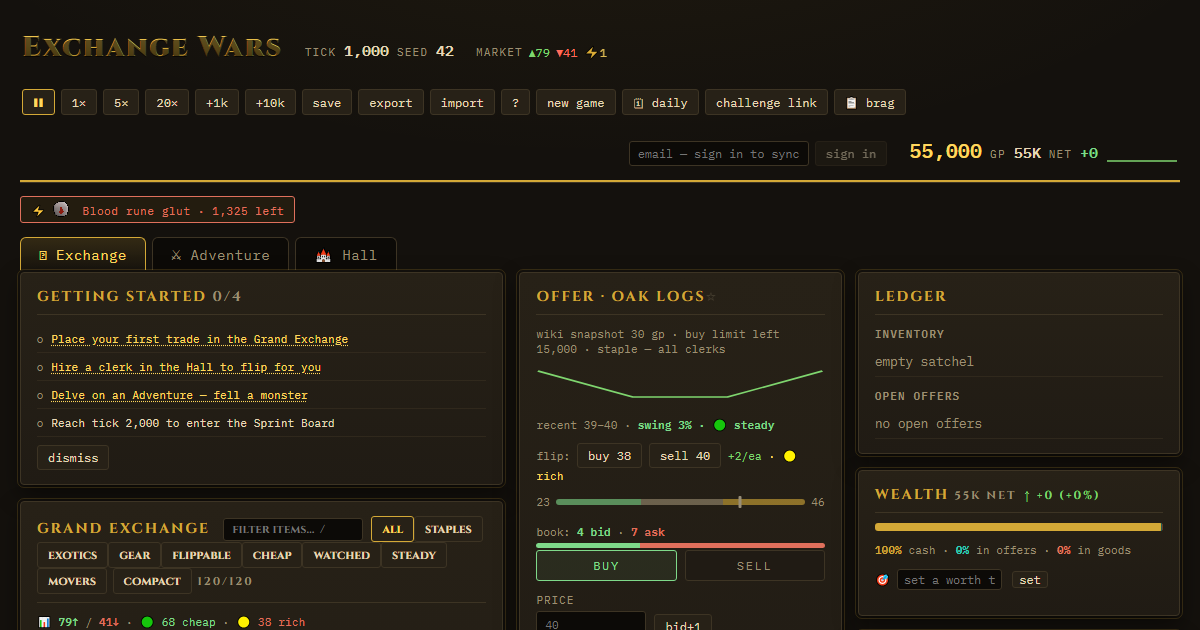
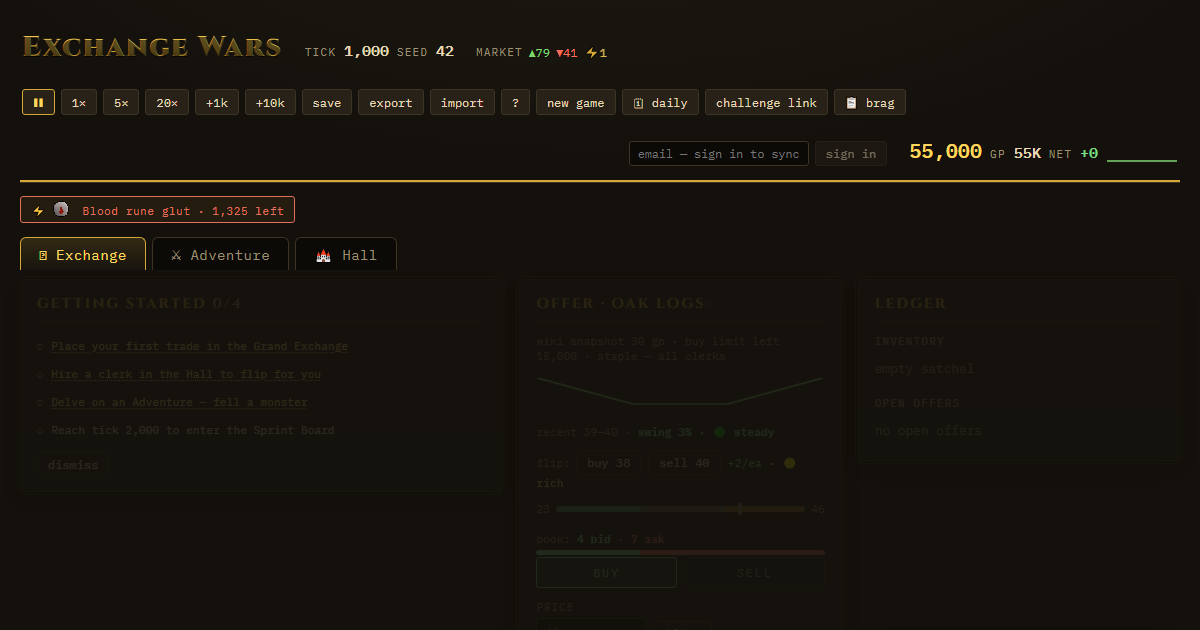
test(ui)+docs: capture all three rooms (visual-QA tooling + README)
The on-demand screenshot capture only shot the Exchange (the README hero), so
Adventure and the Hall -- half the game, and where ~10 of this session's features
landed (survivability ladder, lethality, elite aura, the rebalanced Hall) -- were
QA'd blind. Extended the capture to navigate Exchange -> Adventure -> Hall (wait
for a stable element in each, fullPage shot) and added the two new shots to the
README.

Visual-QA pass it enabled: both rooms are healthy -- no broken layout, overlap,
or missing panels. The fresh-seed vertical sparseness is expected empty-state (the
fortune chart, adventurer's record, and delve log fill as you play; conditional
panels like the shop/conquest correctly don't render at zero progress), NOT the
structural void 18t fixed in the Hall.

Phase: 19t (Brick 306) -- Done condition met: yes

Gates: typecheck clean; e2e 13 (capture skipped w/o SCREENSHOT); unit unchanged 480

diff --git a/packages/ui/e2e/game.spec.ts b/packages/ui/e2e/game.spec.ts
@@ -129,6 +129,16 @@ test('capture README screenshot (on demand)', async ({ page }) => {
     path: fileURLToPath(new URL('../../../docs/screenshot.png', import.meta.url)),
     fullPage: true,
   });
+  // The RPG + meta rooms too — the README/marketing hero is the Exchange, but Adventure (embark
+  // forecast, survivability ladder) and the Hall (fortune, leaderboard, records) are half the game
+  // and were never captured; these also drive the visual-QA pass (19t).
+  await page.getByRole('tab', { name: /Adventure/ }).click();
+  await page.getByText(/danger:/).first().waitFor();
+  await page.screenshot({ path: fileURLToPath(new URL('../../../docs/screenshot-adventure.png', import.meta.url)), fullPage: true });
+  await page.getByRole('tab', { name: /Hall/ }).click();
+  await page.locator('.almanac').waitFor();
+  await page.screenshot({ path: fileURLToPath(new URL('../../../docs/screenshot-hall.png', import.meta.url)), fullPage: true });
+  await page.getByRole('tab', { name: /Exchange/ }).click();
   // The social-share card (og:image): a 1200×630 viewport of the top-of-Exchange (masthead title +
   // the market) — the standard OG ratio, so challenge/brag links preview as a branded card (18z).
   await page.setViewportSize({ width: 1200, height: 630 });

diff --git a/FINDINGS.md b/FINDINGS.md
@@ -1,5 +1,9 @@
 # Findings
 
+## Phase 19t — capture all three rooms (visual-QA tooling + README) (2026-06-13)
+
+332. **You can't QA a room you never render.** The on-demand screenshot capture only ever shot the Exchange (the README hero); Adventure and the Hall — half the game, and where this session's work landed (survivability ladder, elite aura, the rebalanced Hall) — were never captured, so I'd been reasoning about their layout blind. Extended the capture to all three rooms (tab → waitFor a stable element → fullPage shot) and added the two new shots to the README. The visual-QA pass it enabled: both rooms are HEALTHY — no broken layout, overlap, or missing panels; the vertical sparseness on a FRESH seed is expected empty-state (the fortune chart, adventurer's record, and delve log fill as you play; conditional panels like the shop/conquest correctly don't render at zero progress), not a bug. Lessons: (1) **extend your QA instruments to cover everything you ship** — I'd added ~10 Adventure/Hall features this session while only ever seeing the Exchange rendered; a one-time tooling extension closed that blind spot cheaply. (2) **a fresh-state void isn't automatically a layout bug** — distinguish empty-state sparseness (fills with play) from a structural void (the 18t Hall 6/1/1 was structural; this is content). (3) marketing/README value too — the RPG + meta halves were invisible in the one hero shot. UI/e2e/docs only, no engine change → no redeploy. Brick 306.
+
 ## Phase 19s — a boss aura for named elites in the combat scene (2026-06-13)
 
 331. **Game-feel: the climax should LOOK like one.** The 4 named elites (Skarn/Vorkanth/Zukrath/Vessith) are the hardest fights + best loot, but the combat scene rendered them as a 1.25×-scaled monster with the shared ★ crown — visually almost an ordinary foe. Added a combat-only pulsing gold boss aura (a `<defs>` radial gradient + an `.elite-aura` ellipse behind the monster, opacity-pulsed by CSS). Lessons: (1) **after a long instrumentation run, a pure game-FEEL beat is legitimate value** — the survivability ladder (19f/g/m) and death-stakes all build toward the elites; making the encounter look earned is the payoff the numbers were pointing at (the frontend-design principle: one well-orchestrated high-impact moment > scattered micro-effects). (2) **scope the flourish to where it belongs** — the aura lives in CombatScene, NOT in the shared `MonsterBody` (which the Bestiary also renders, where a calm silhouette is right); the same instinct as keeping engine-mirrors pure. (3) **opacity-only pulse** dodges the documented transform-clobber trap in this file (a CSS transform on an element inside the attribute-transformed monster `<g>` would snap it to 0,0) — animate what's safe. (4) the aura lives inside the monster's scaled `<g>` so it tracks position/size for free. UI-only SVG/CSS, no engine change → no redeploy. Brick 305.

diff --git a/NEXT_STEPS.md b/NEXT_STEPS.md
@@ -32,6 +32,7 @@ Through brick 59 (10g): RPG layer (8 regions, stats/xp, brews, bounties, sellswo
 - **Tier-3 clerk "trades events too" — DROPPED**: clerks farm neither events nor exotics (FINDINGS #27/#35).
 
 ## Quality
+- **Tooling/QA — capture all three rooms (19t, brick 306):** the on-demand screenshot capture now shoots Adventure + Hall too (not just the Exchange hero), added to the README. Visual-QA pass: both rooms HEALTHY — fresh-state vertical sparseness is expected empty-state (fills with play; conditional panels correctly hidden at zero progress), not a layout bug. Closes a blind spot — ~10 Adventure/Hall features shipped this session were never rendered in QA. e2e/docs only, no redeploy.
 - **Game-feel — elite boss aura (19s, brick 305):** named elites (Skarn/Vorkanth/Zukrath/Vessith) now get a pulsing gold aura in the combat scene (a `<defs>` radial gradient + `.elite-aura` ellipse, opacity-pulsed) so the climax fights look earned. Combat-only — `MonsterBody`/Bestiary glyph stays a clean silhouette. UI-only SVG/CSS, no redeploy.
 - **Review fix — offline catch-up data loss (19r, brick 304):** found by the offline-subsystem adversarial review. A chunked catch-up (>5,000 ticks) interrupted by a tab-hide persisted `lastSeenMs≈now` with the world only partway → the unrun remainder (up to the 100k-tick cap, ~28h) was silently dropped on reopen. Fix: `onVis`-hidden skips the save while a chunked catch-up is in flight (`planRef.current !== null`), so the clean prior state survives and the next boot re-plans the whole gap. Also reworded the misleading "policy:'idle'" offline comment (the Clerk DOES act offline; replay re-derives it). **Logged (Jesse/cloud):** a pre-scheduled cloud push landing mid-catch-up is a rarer sibling of the same bug.
 - **Feature — sell-side fill preview on the ticket (19q, brick 303):** completes 19k's buy/sell symmetry — the SELL ticket now shows "fills ≈X now · ≈Y net" (bidWalk capped at the limit) for a crossing sell, which fills at the higher resting bid (you net more than the "after tax" figure) and rests the rest. Added an optional `minPrice=0` floor to `bidWalk` (existing dump/`liquidateNow` callers byte-identical). UI-only, no redeploy.

diff --git a/README.md b/README.md
@@ -4,6 +4,11 @@
 
 ![Exchange Wars — the medieval trading terminal](docs/screenshot.png)
 
+The trading floor is one of three rooms — **Adventure** sends raiding parties into eight regions, and the **Hall** holds your fortune, the leaderboard, and your record:
+
+![Adventure — embark forecast, survivability read, and the region map](docs/screenshot-adventure.png)
+![The Hall — run card, fortune chart, sprint board, and adventurer's record](docs/screenshot-hall.png)
+
 A market/trading tycoon game built on a fully deterministic, headless economy simulation. NPC agents — producers, consumers, market makers, momentum chasers, noise traders — trade items on a GE-style exchange with limit order books, escrow, and a 2% sell tax. The player flips items, corners markets, and (in later phases) unlocks automation.
 
 The defining constraint: **the entire game core is testable and debuggable with zero human in the loop.** Same seed → same world, bit for bit. A scripted flipper bot plays the game programmatically from day one.
